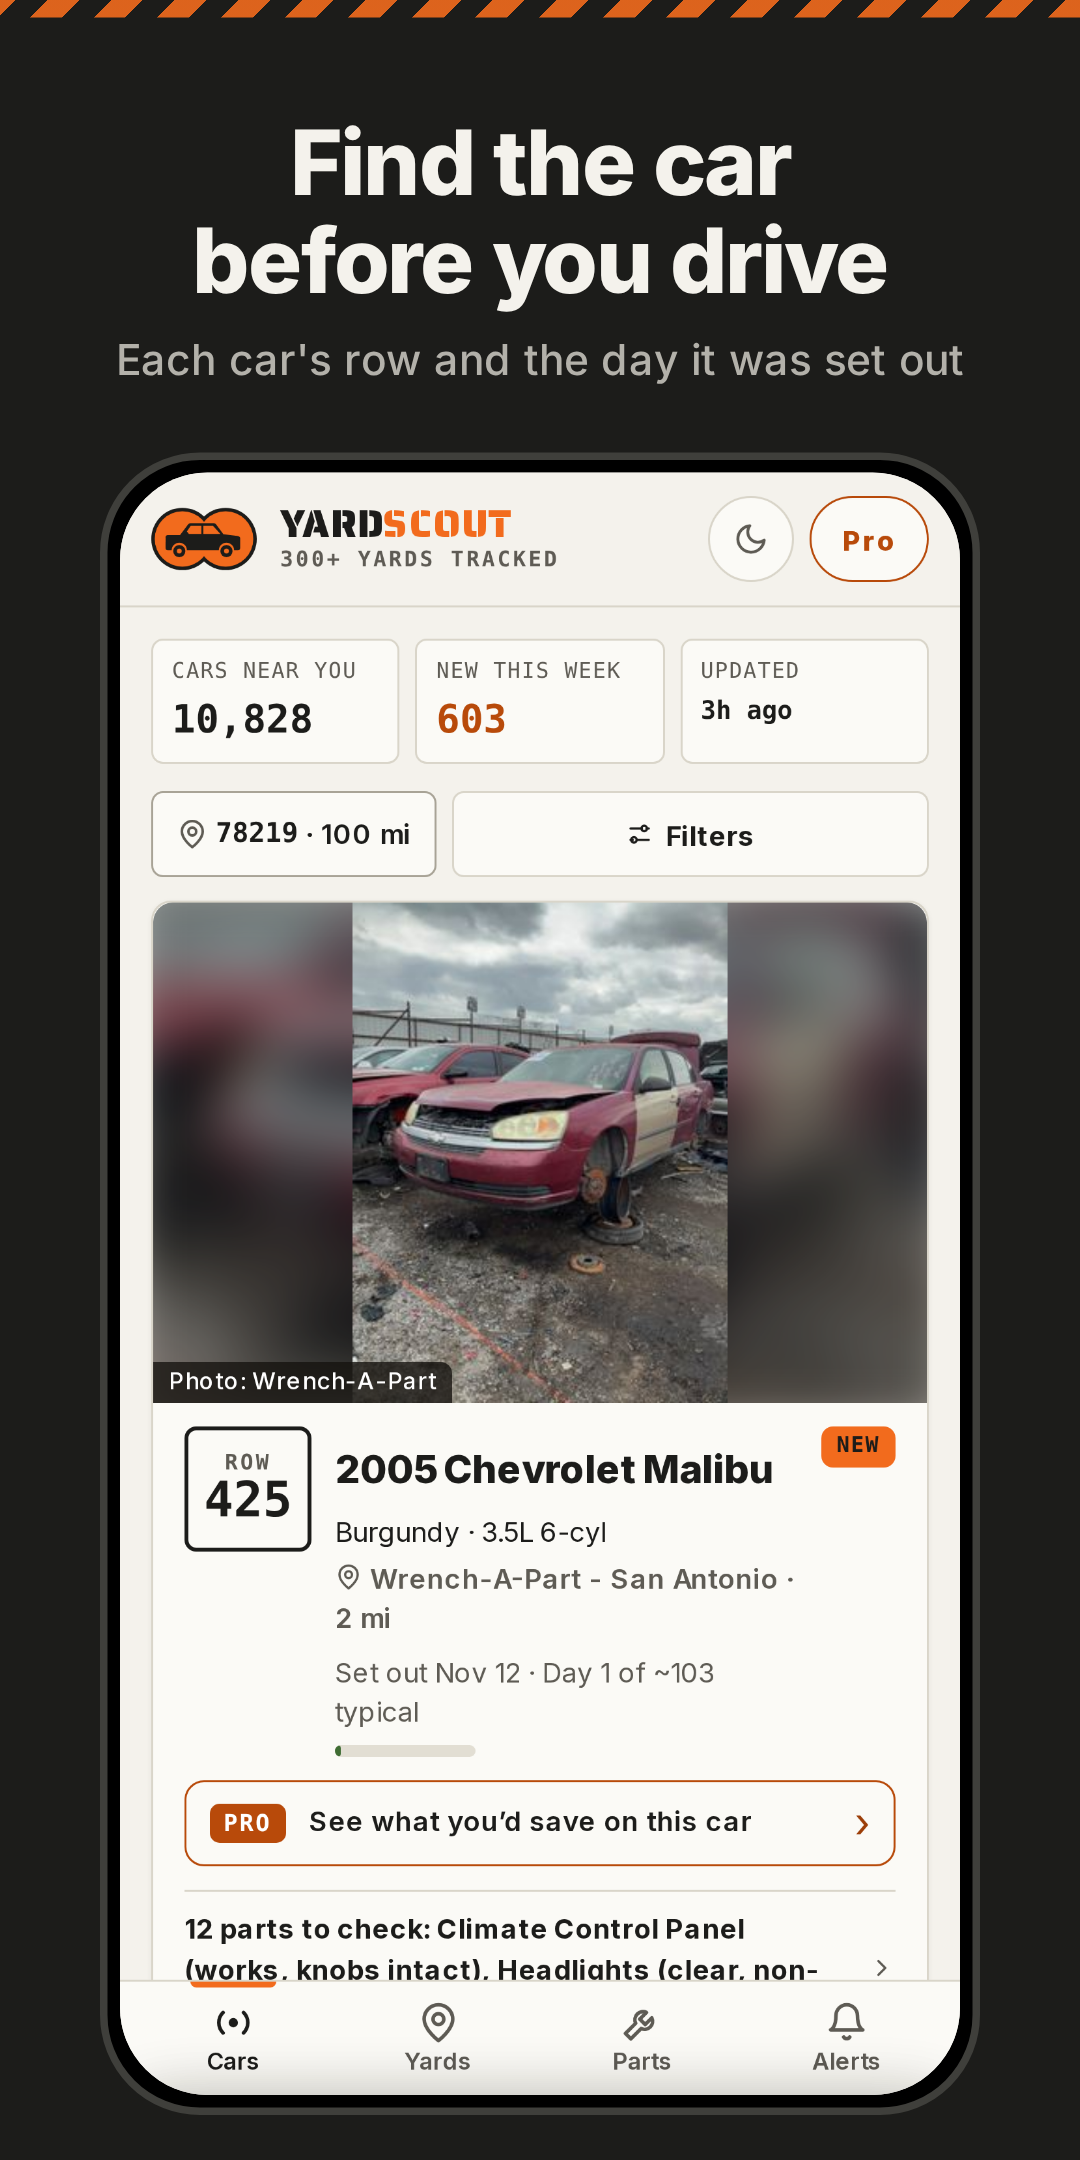
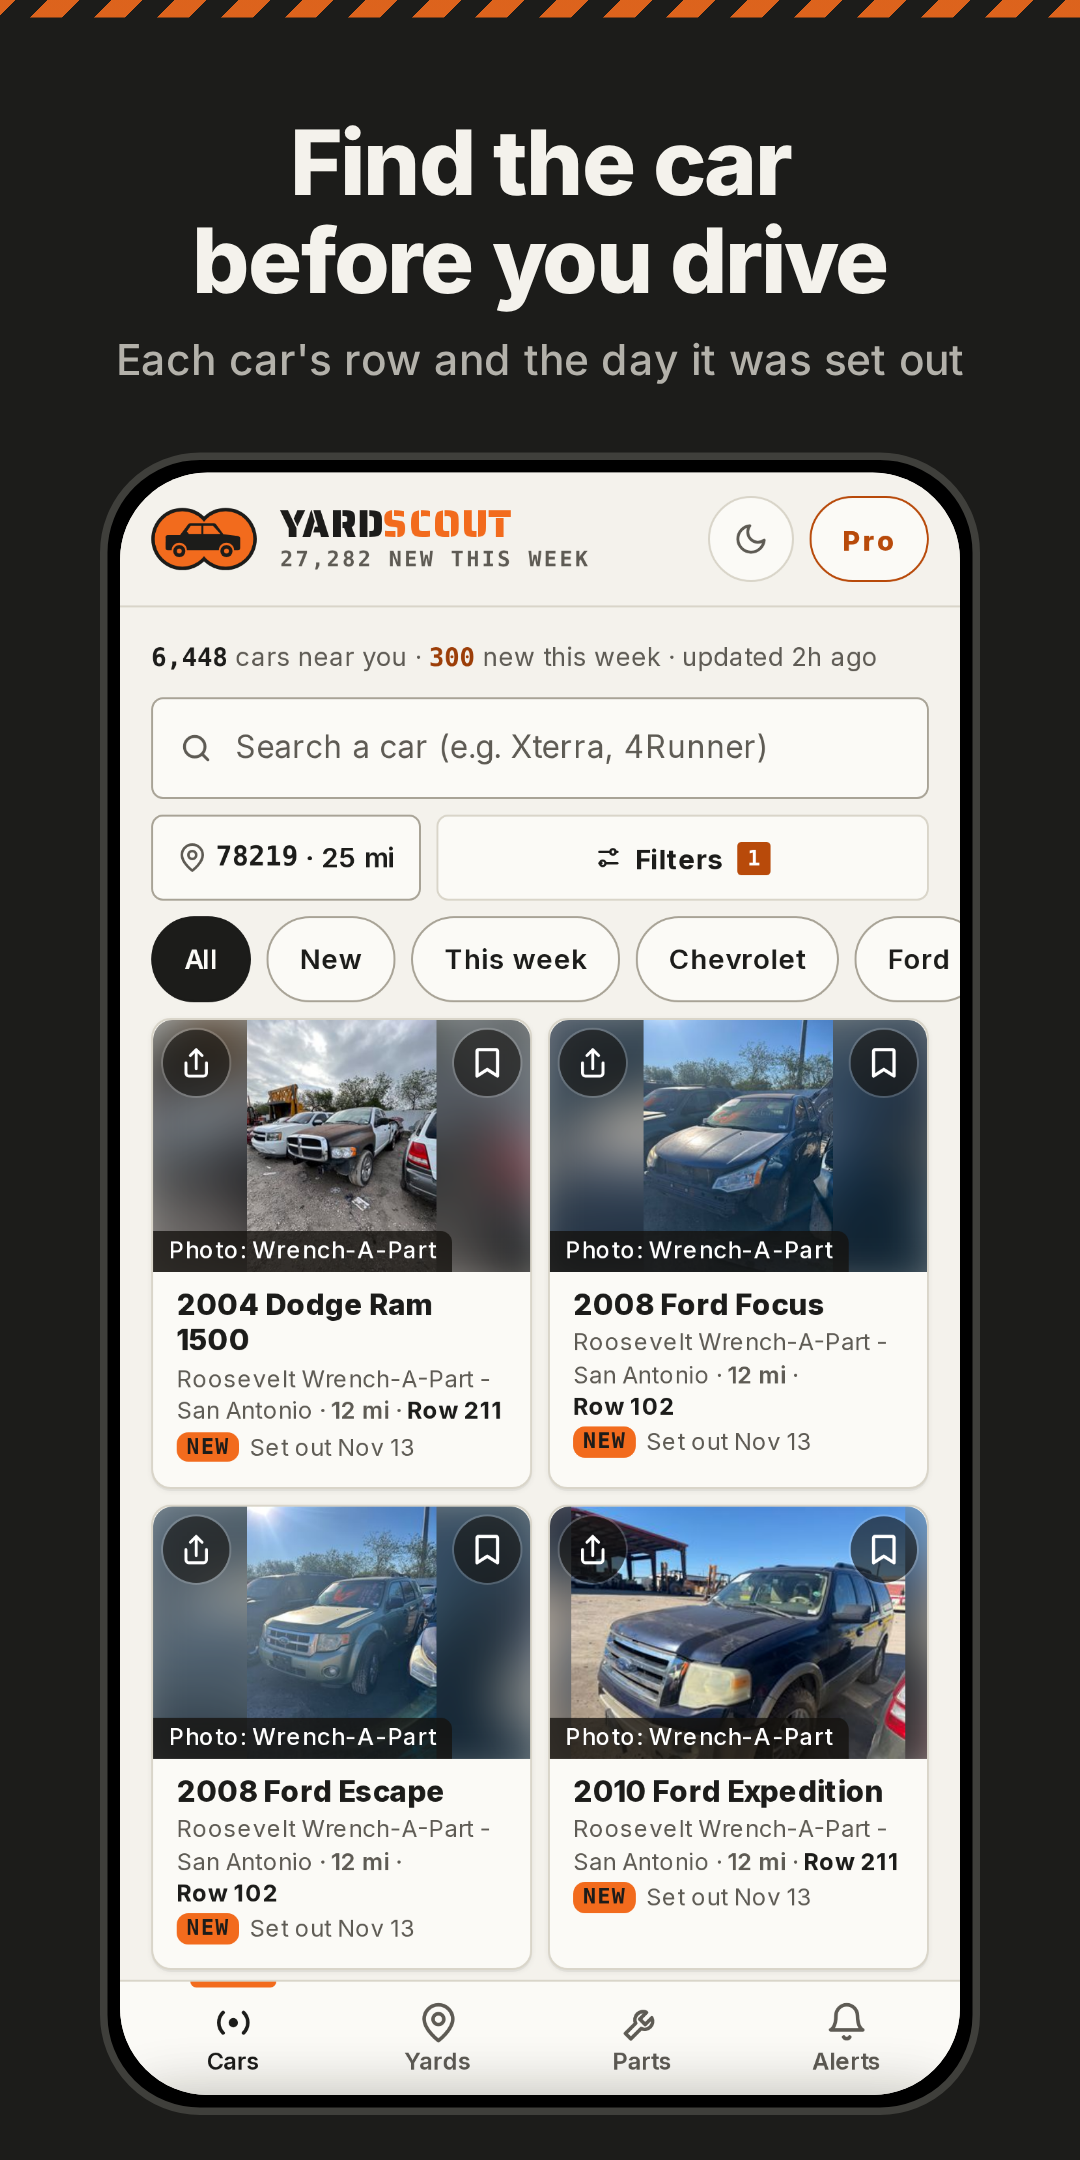
store: screenshots regenerated for the tile feed (both stores)
All six slides re-captured from the merged build with today's data
(tools/capture_store_shots.py); each one looked at. Slide 1 is the new Cars
grid; slide 5's caption reads "Free on one watch. Pro on every watch."

The Cars slide is now taken at 25 mi: at 100 mi the newest cars were a yard
61 mi off with a word for a row ("CARS FRONT-49"); in town the slide shows
numbered rows, short distances and the yard's own photos.

Files only: the App Store set goes up with the next iOS submit, the Play set
with store-listing.yml.

Claude-Session: https://claude.ai/code/session_01LsgNuWEh1vdaDCtdP1jxMM

Changed region(s): [[0.1222, 0.2481, 0.8861, 0.9306], [0.3667, 0.2481, 0.3972, 0.2792]]

diff --git a/tools/capture_store_shots.py b/tools/capture_store_shots.py
@@ -67,6 +67,8 @@ SLIDES = [
     ("06_value", "Know what a part is worth", "Pro: yard price vs what it sells for online", "value", True),
 ]
 
+# Cars slide: search distance (a value of the app's own distance list).
+CARS_RADIUS = "25"
 # Parts slide search: a common car and part with Verified and Likely donors.
 PARTS_CAR = ("2009", "Toyota", "Camry")
 PARTS_PART = "Alternator"
@@ -208,6 +210,14 @@ def scroll_to(page, selector, gap=12):
 
 def step_cars(page, base):
     load_app(page, base)
+    # A short drive only: the first screen then shows cars at the yards in
+    # town (their own photos, numbered rows) rather than the newest car
+    # anywhere within 100 mi.
+    page.evaluate("""r => { const s = document.getElementById('live-radius');
+        if (s && [...s.options].some(o => o.value === r)) { s.value = r; s.dispatchEvent(new Event('change', { bubbles: true })); } }""",
+                  CARS_RADIUS)
+    page.wait_for_timeout(2500)
+    tidy(page)
     page.evaluate("window.scrollTo(0, 0)")
     wait_images(page)
 
